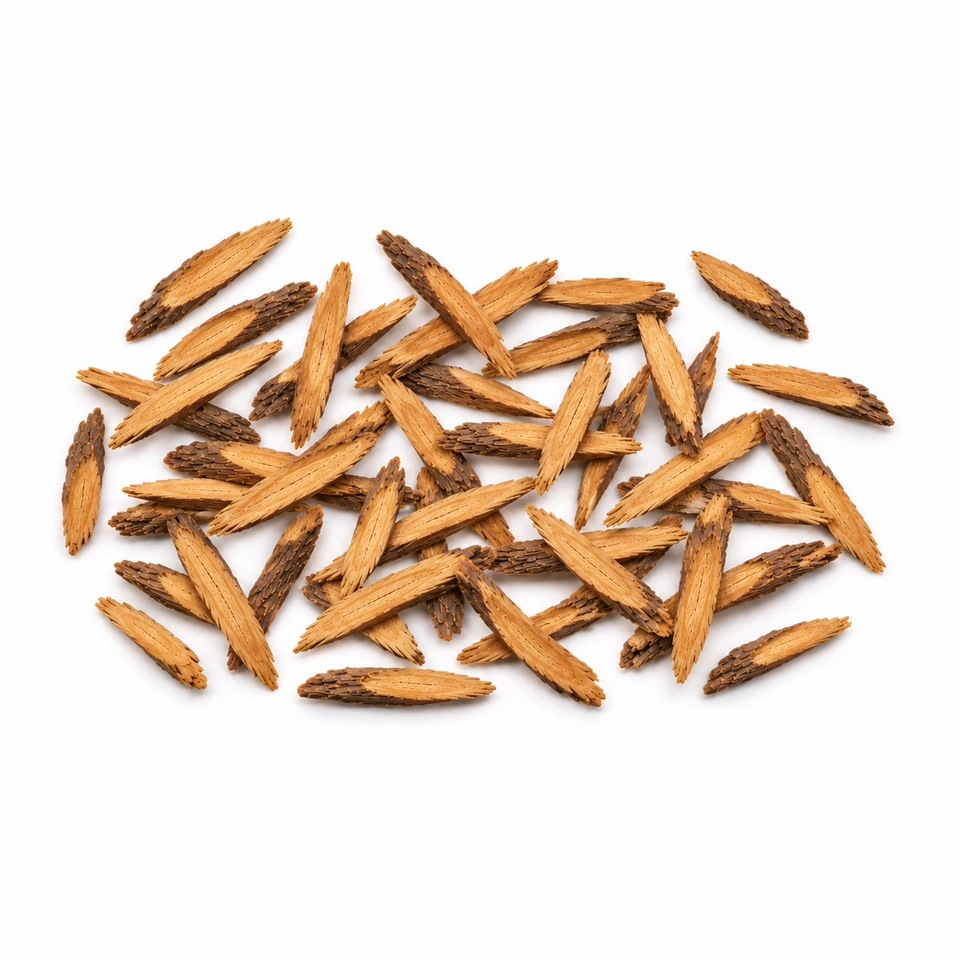
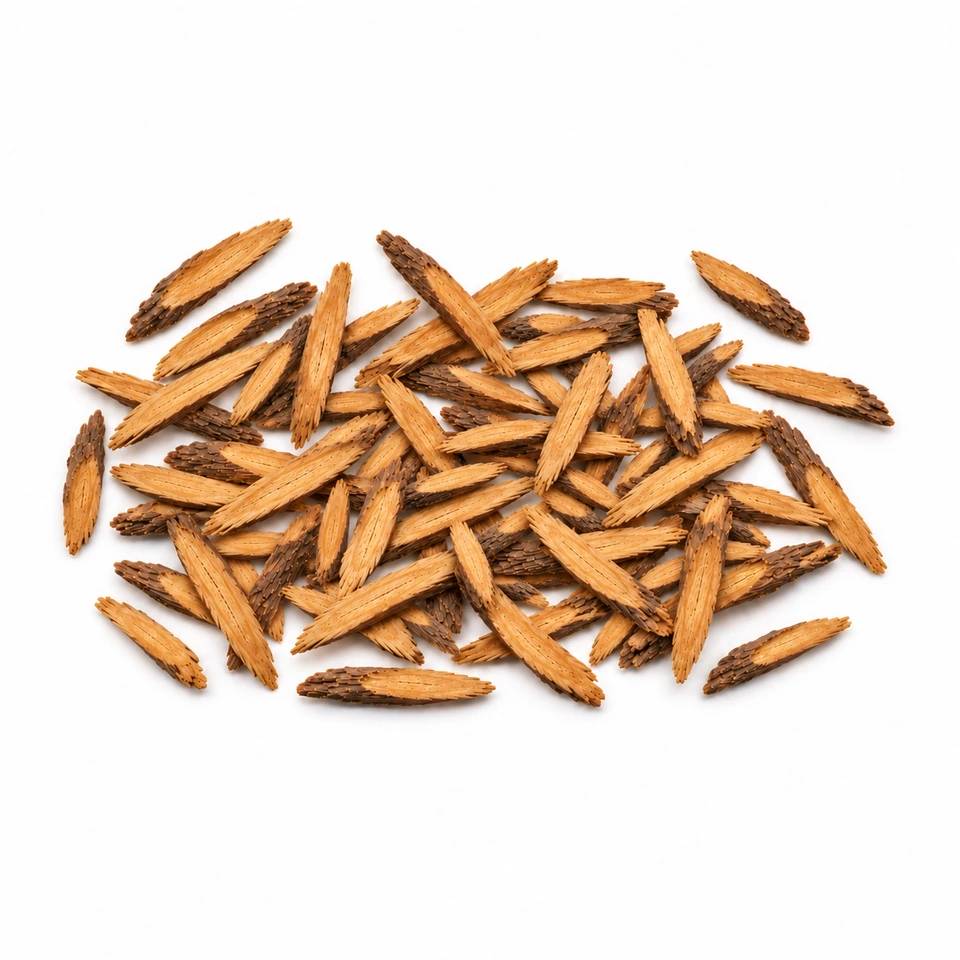
Make roasted licorice photos fuller and separate 1ho from Yangwai1 arrangement

diff --git a/app/ProductImage.js b/app/ProductImage.js
@@ -8,7 +8,7 @@ export default function ProductImage({ src, name, origin }) {
   const visible = Boolean(src) && !failed;
   const reference = src?.startsWith("/products-reference/");
   const localPhoto = reference || src?.startsWith("/products/");
-  const imageSrc = localPhoto ? `${src}${src.includes("?") ? "&" : "?"}photo=${src.split("?")[0] === "/products-reference/uniform-20261029/herb-001.webp" ? "gaja-20261117-v1" : src.split("?")[0] === "/products-reference/uniform-20261029/herb-003-v2.webp" ? "galgeun-20261117-v1" : src.split("?")[0] === "/products-reference/uniform-20261029/herb-004.webp" ? "galhwa-20261118-v1" : src.split("?")[0] === "/products-reference/uniform-20261029/herb-005.webp" ? "gamguk-20261118-v1" : src.split("?")[0] === "/products-reference/uniform-20261029/gamin-geomin.webp" ? "geomin-20261118-v1" : src.split("?")[0] === "/products-reference/uniform-20261029/herb-007.webp" ? "licorice-20261118-v1" : src.split("?")[0] === "/products-reference/uniform-20261029/gamcho-yangwai1-20261118.webp" ? "yangwai1-20261118-v3" : src.split("?")[0] === "/products-reference/uniform-20261029/gamcho-roasted-v2.webp" ? "roasted-20261118-v1" : "linen-20261116-v2"}` : src;
+  const imageSrc = localPhoto ? `${src}${src.includes("?") ? "&" : "?"}photo=${src.split("?")[0] === "/products-reference/uniform-20261029/herb-001.webp" ? "gaja-20261117-v1" : src.split("?")[0] === "/products-reference/uniform-20261029/herb-003-v2.webp" ? "galgeun-20261117-v1" : src.split("?")[0] === "/products-reference/uniform-20261029/herb-004.webp" ? "galhwa-20261118-v1" : src.split("?")[0] === "/products-reference/uniform-20261029/herb-005.webp" ? "gamguk-20261118-v1" : src.split("?")[0] === "/products-reference/uniform-20261029/gamin-geomin.webp" ? "geomin-20261118-v1" : src.split("?")[0] === "/products-reference/uniform-20261029/herb-007.webp" ? "licorice-20261118-v1" : src.split("?")[0] === "/products-reference/uniform-20261029/gamcho-yangwai1-20261118.webp" ? "yangwai1-20261118-v3" : src.split("?")[0] === "/products-reference/uniform-20261029/gamcho-roasted-v2.webp" ? "roasted-20261118-v2" : src.split("?")[0].startsWith("/products-reference/uniform-20261029/gamcho-roasted-") ? "roasted-20261118-v2" : "linen-20261116-v2"}` : src;
   const domesticGalgeun = /^갈근(?:\s*\((?:사각|강원문막)\))?$/.test(name || "")
     && /국내산|국산|한국|대한민국/.test(origin || "")
     && src?.split("?")[0] === "/products-reference/uniform-20261029/herb-003-v2.webp";
